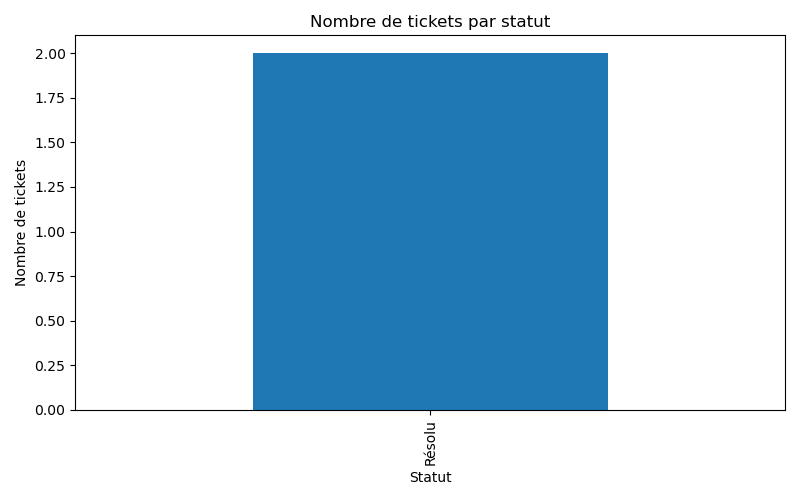
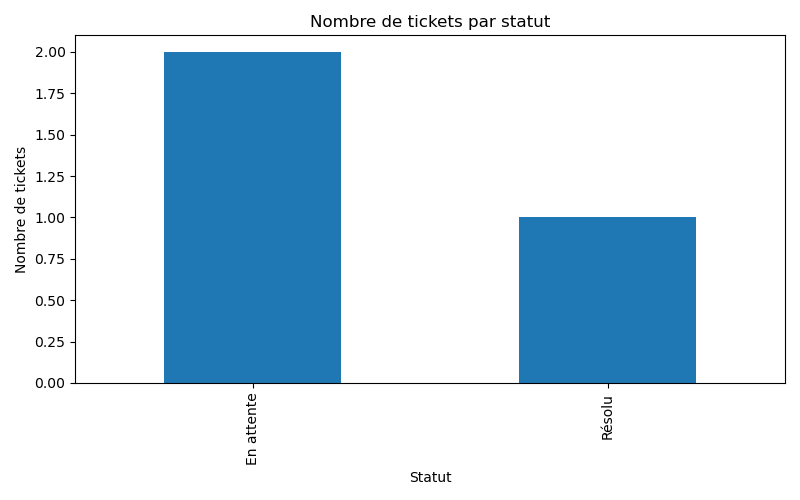
update

diff --git a/app.py b/app.py
@@ -7,9 +7,8 @@ matplotlib.use("Agg")
 import matplotlib.pyplot as plt
 
 
-# ============================================================
 # APPLICATION FLASK
-# ============================================================
+
 
 app = Flask(__name__)
 
